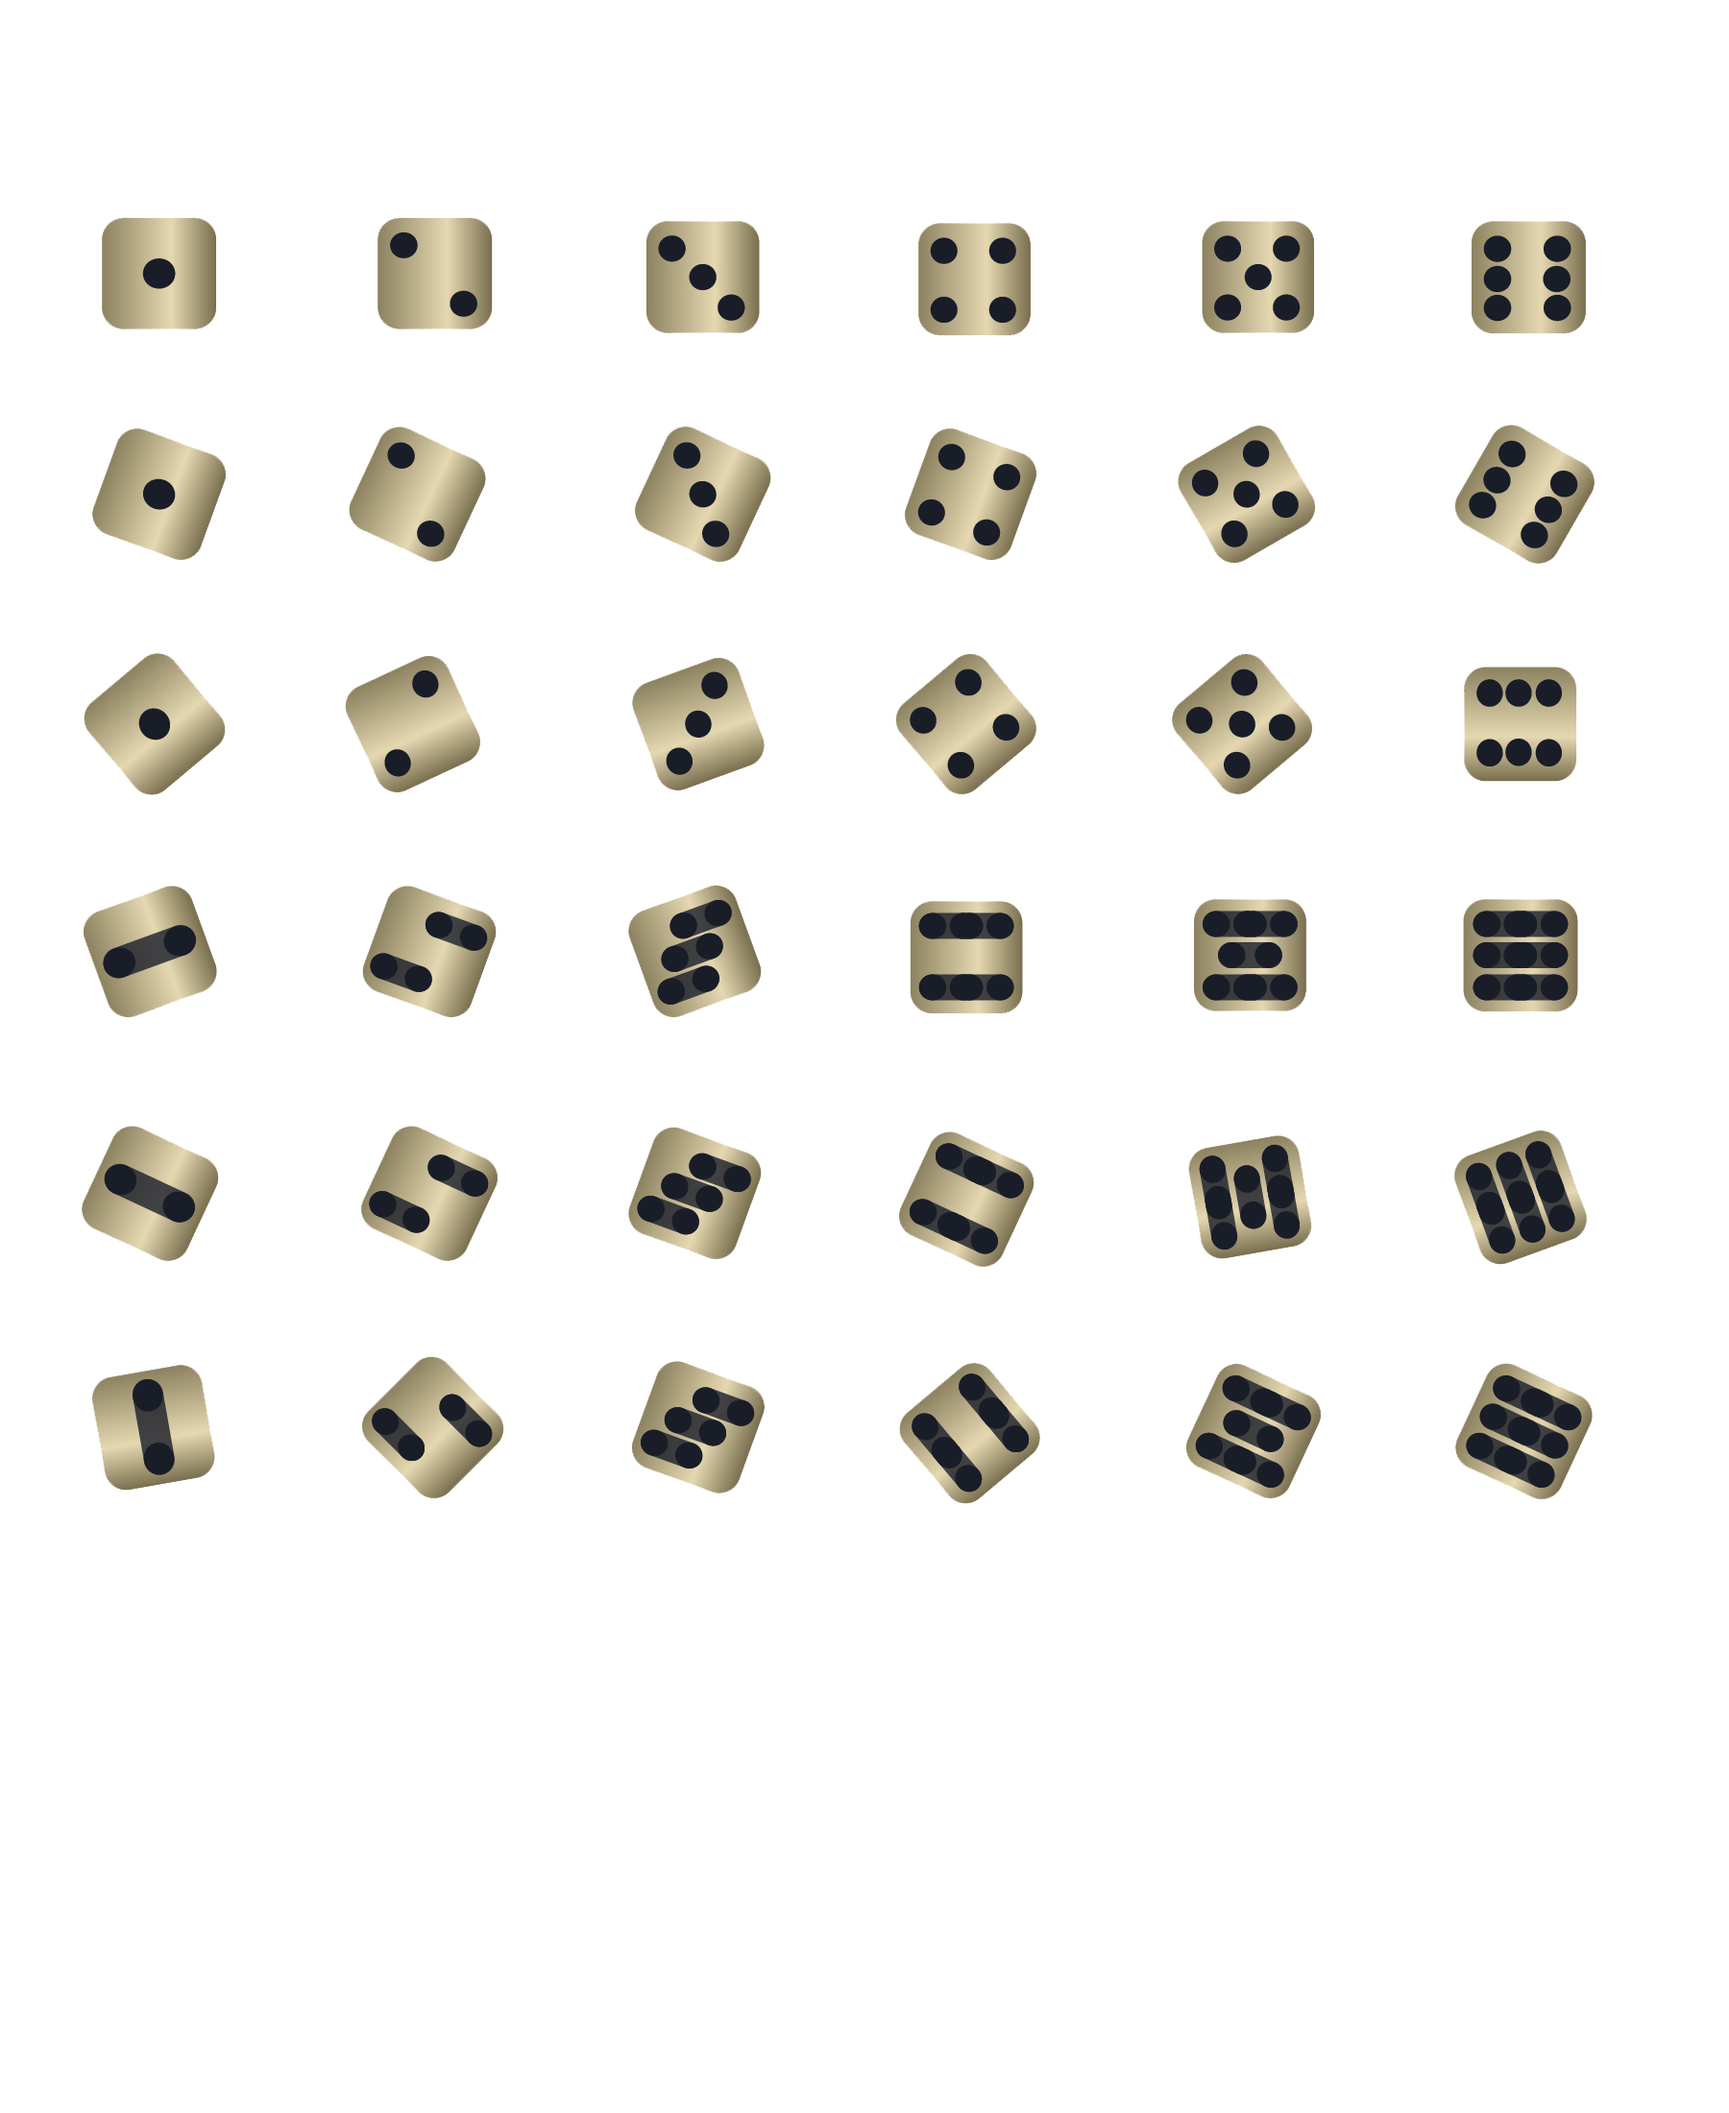
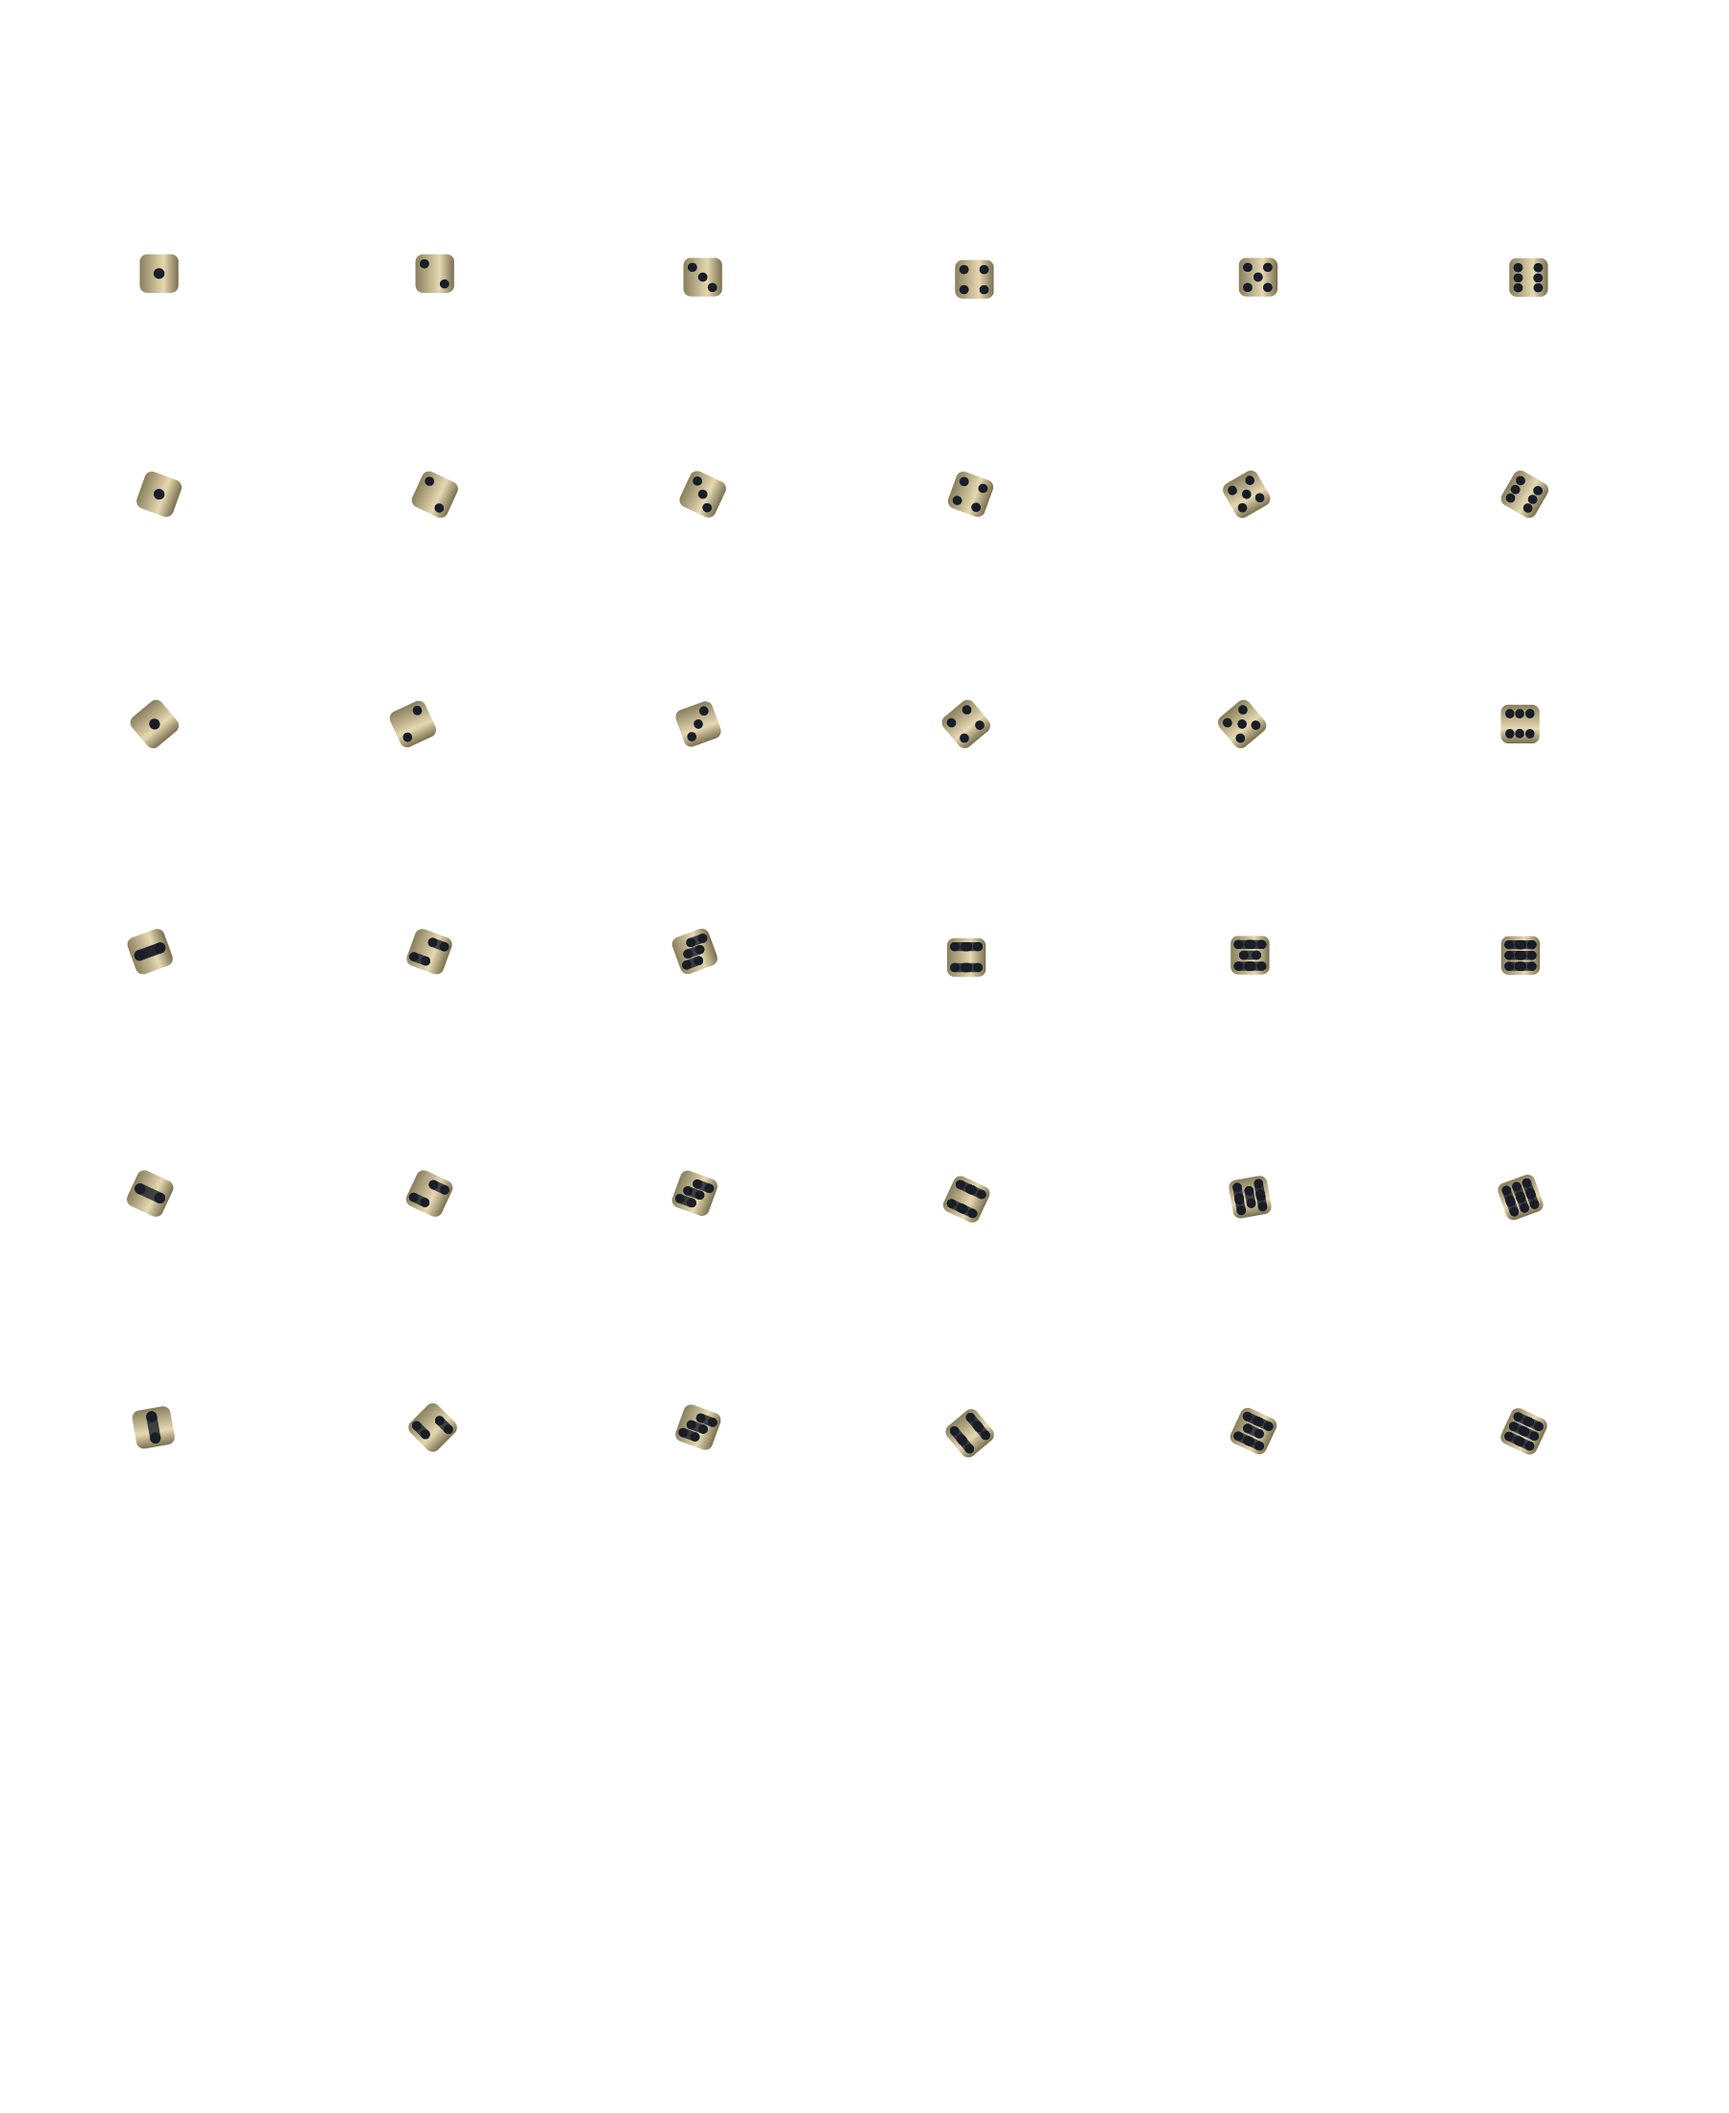
add rollingdice to the laytout

diff --git a/frontend/src/components/RollingDice/RollingDice.jsx b/frontend/src/components/RollingDice/RollingDice.jsx
@@ -52,33 +52,33 @@ class DiceRoller extends React.Component{
     diceValueMapping(props){
           switch (props)
           {
-              case 1: 
-              return "-106px -226px";
-              break;
+            case 1: 
+            return "-145px -264px";
+            break;
 
-              case 2: 
-              return "-393px -226px";
-              break;
+            case 2: 
+            return "-432px -264px";
+            break;
 
-              case 3: 
-              return "-672px -229px";
-              break;
+            case 3: 
+            return "-711px -268px";
+            break;
 
-              case 4: 
-              return "-956px -232px";
-              break;
+            case 4: 
+            return "-994px -270px";
+            break;
 
-              case 5: 
-              return "-1251px -230px";
-              break;
+            case 5: 
+            return "-1289px -268px";
+            break;
 
-              case 6: 
-              return "-1531px -230px";
-              break;
+            case 6: 
+            return "-1571px -268px";
+            break;
 
-              default:
-              return "-106px -226px";
-          }
+            default:
+            return "-145px -264px";
+        }
 
       }
 

diff --git a/frontend/src/components/RollingDice/RollingDice.css b/frontend/src/components/RollingDice/RollingDice.css
@@ -1,12 +1,12 @@
 
  .goto_dice1{
     background:url(dice.png);
-    height:147px;width:147px;
+    height:51px;width:51px;
     background-position:-333px -63px;
     background-repeat:no-repeat;
     position: absolute;
-    left: 400px;
-    top: 350px;
+    left: 555px;
+    top: 450px;
    
     -webkit-animation-name: dice1transform; /* Safari 4.0 - 8.0 */
      -webkit-animation-duration: 1s; /* Safari 4.0 - 8.0 */
@@ -21,12 +21,12 @@
    
      .goto_dice2{
     background:url(dice.png);
-    height:147px;width:147px;
+    height:51px;width:51px;
     background-position:-45px -45px;
     background-repeat:no-repeat;
     position: absolute;
     left: 600px;
-    top: 350px;
+    top: 450px;
    
     -webkit-animation-name: dice2transform; /* Safari 4.0 - 8.0 */
      -webkit-animation-duration: 1s; /* Safari 4.0 - 8.0 */
@@ -41,12 +41,12 @@
    
      .goto_dice3{
     background:url(dice.png);
-    height:147px;width:147px;
+    height:51px;width:51px;
     background-position:-45px -45px;
     background-repeat:no-repeat;
     position: absolute;
-    left: 800px;
-    top: 350px;
+    left: 645px;
+    top: 450px;
    
     -webkit-animation-name: dice3transform; /* Safari 4.0 - 8.0 */
      -webkit-animation-duration: 1.4s; /* Safari 4.0 - 8.0 */

diff --git a/frontend/src/components/App/App.jsx b/frontend/src/components/App/App.jsx
@@ -2,12 +2,27 @@
 import React, { Component } from 'react';
 import { connect } from 'react-redux';
 // Components
-import { Header, BetTable } from 'components';
+import { Header, BetTable, RollingDice } from 'components';
 import DiceBoard from 'components/DiceBoard/DiceBoard.jsx';
 
 class App extends Component {
 
   render() {
+    const dice = {
+      countDown: true,
+      time2dice: 1,
+      numberOfDices:3,
+
+      dice1timer:"1s",
+      dice1value: 1,
+
+      dice2timer:"1s",
+      dice2value: 3,
+
+      dice3timer:"1s",
+      dice3value: 4
+    };
+
     return (
       <div className="App">
         <Header />
@@ -15,7 +30,8 @@ class App extends Component {
         <div className="dice_board_center">
             <DiceBoard />
             </div>
-        </div>
+            <RollingDice {...dice}/>
+        </div>        
         <div className="dice_table">
           <BetTable />
         </div>
